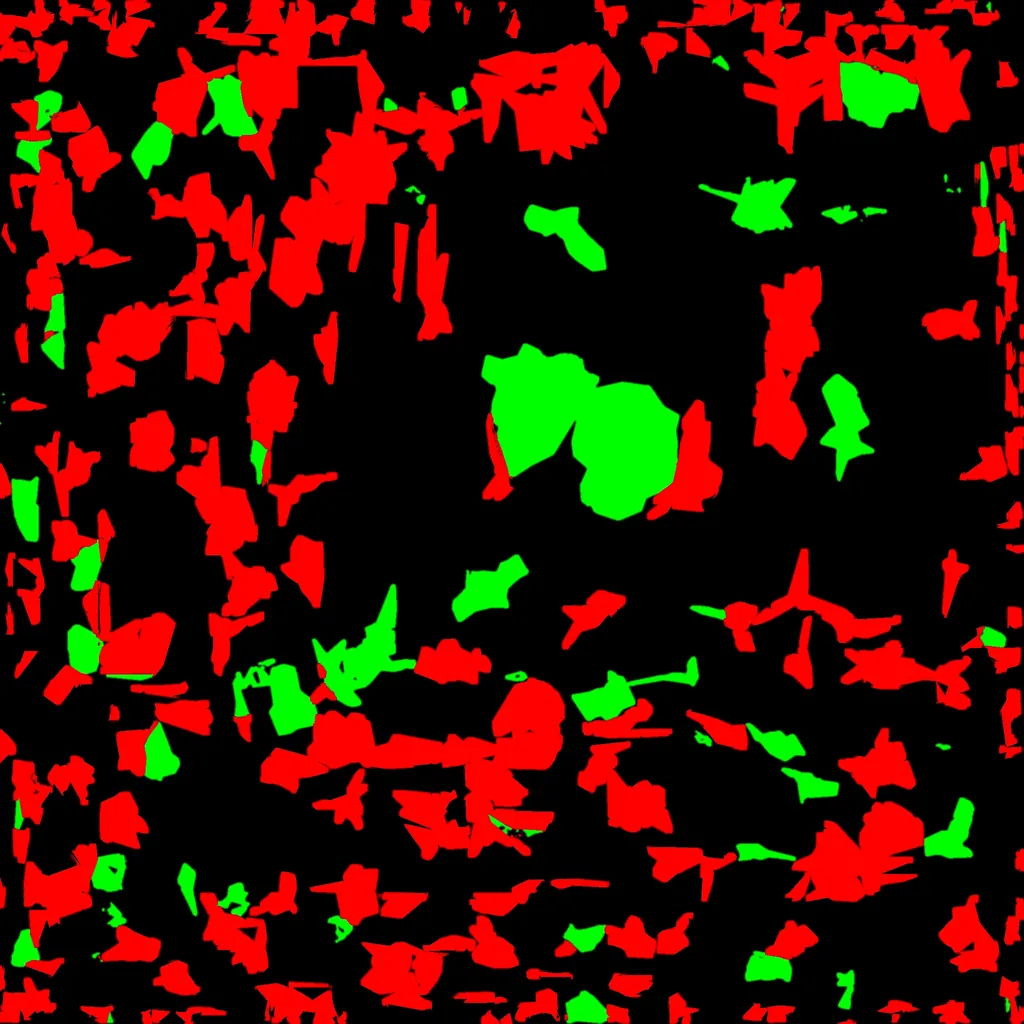
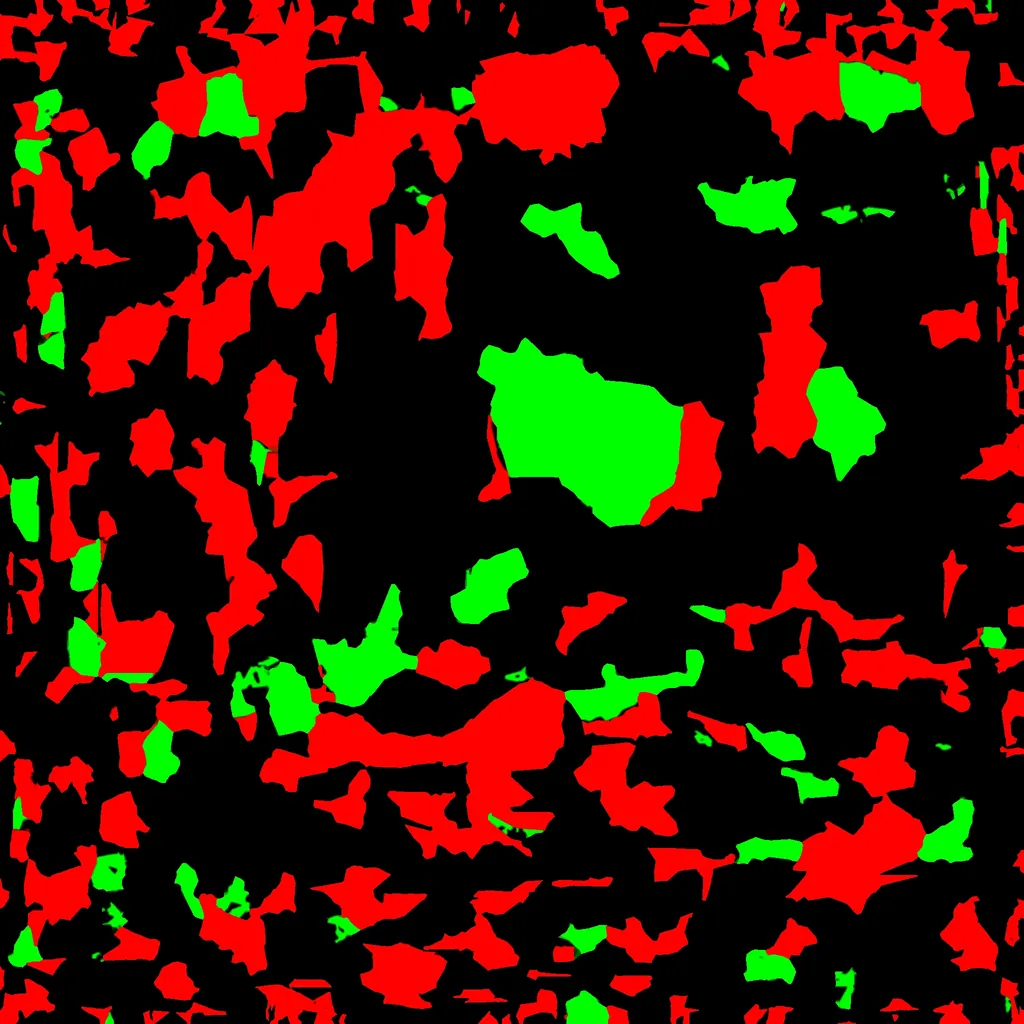
Porté : la couleur du t-shirt ne déborde plus sur le mannequin
Les masques de la version précédente faisaient déborder la couleur du t-shirt sur le pantalon, les shorts,
les jambes et les cubes (traits fins), et en pointes dans le short à la taille. Maintenant :
- aucune autre pièce (pantalon, short, siège, corps) ne prend la couleur, même voisine dans la texture ;
- les faces du bas du t-shirt qui chevauchent le short ou le pantalon se découpent au pixel, sur la couleur ;
- le vide entre les pièces de la texture prend la valeur de la pièce la plus proche (plus de liseré clair
  le long des coutures du t-shirt).
Adresses des modèles en ?v=9.

Claude-Session: https://claude.ai/code/session_017CRpNa7BC217D3pkaH4N2V

diff --git a/src/components/MannequinTryOn.tsx b/src/components/MannequinTryOn.tsx
@@ -73,7 +73,7 @@ export type StudioCanvases = { front: HTMLCanvasElement; back: HTMLCanvasElement
 const NO_PRINT: Print3D = {};
 
 // Bump MODELS_V when the files change: browsers and the service worker keep the old ones otherwise.
-const MODELS_V = 8;
+const MODELS_V = 9;
 const modelUrl = (id: Mannequin) => `/models/mannequins/${id}.glb?v=${MODELS_V}`;
 const maskUrl = (id: Mannequin) => `/models/mannequins/${id}-mask.webp?v=${MODELS_V}`;
 /** Starts downloading a mannequin (model + mask) so it shows at once when asked for. */
